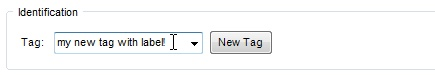
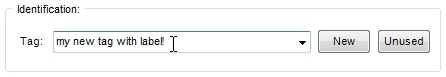
Added a way to assign new tags, which finds a tag unused by current map element type.

Changed region(s): [[0.0, 0.0533, 1.0, 0.9333]]

diff --git a/Help/gzdb/features/all_modes/tag_support.html b/Help/gzdb/features/all_modes/tag_support.html
@@ -17,6 +17,12 @@
 </div>
 	
 	<div id="contents">
+    <h2><strong>New Tag vs. Unused Tag:</strong></h2>
+    <p><img src="tags_newlabel.jpg" /><br />
+    Two methods can be used to assign a new tag to a map element.<br />
+    Pressing &quot;<strong>New</strong>&quot; button will find a tag number, which is not used by any map element or any action argument, which expects a tag (classic Doom Builder 2 behaviour).<br />
+    Pressing "<strong>Unused</strong>" button will  find a tag number, which is not used by any map element of current type (e.g. not used by any linedef in the map, if the button is pressed in Edit Linedefs form).</p>
+    
     <h2><strong>Tag support:</strong></h2>
     <table width="100%" border="0" cellspacing="3" cellpadding="3">
       <tr>
@@ -33,7 +39,7 @@
     <h2><strong>Tag Labels</strong>:</h2>
       <p>You can add labels to tags. This can be done in several ways:<br />
       1. If you type any text in the tag selector, then an unused tag number will be found, and your text will be assigned to it as a label (this won't work for action arguments).      
-      <p><img src="tags_newlabel.jpg" alt="" width="435" height="75" />
+      <p><img src="tags_newlabel.jpg" />
       <p>2. You can use the <strong>Tag statistics</strong> form to view all tags used in a map, and view and edit labels, if any are assigned to them:      
       <p><img src="tags_view1.jpg" alt="" width="264" height="399" /><br /><br /><img src="tags_table.jpg" alt="" />
       <p>Double-click on a value in the &quot;Label&quot; column to edit the tag label.<br />

diff --git a/Source/Core/Windows/SectorEditFormUDMF.Designer.cs b/Source/Core/Windows/SectorEditFormUDMF.Designer.cs
@@ -54,6 +54,7 @@
 			this.flags = new CodeImp.DoomBuilder.Controls.CheckboxArrayControl();
 			this.tabSurfaces = new System.Windows.Forms.TabPage();
 			this.groupBox2 = new System.Windows.Forms.GroupBox();
+			this.cbUseFloorLineAngles = new System.Windows.Forms.CheckBox();
 			this.floorAngleControl = new CodeImp.DoomBuilder.GZBuilder.Controls.AngleControl();
 			this.label7 = new System.Windows.Forms.Label();
 			this.label10 = new System.Windows.Forms.Label();
@@ -68,6 +69,7 @@
 			this.floorOffsets = new CodeImp.DoomBuilder.GZBuilder.Controls.PairedFieldsControl();
 			this.floortex = new CodeImp.DoomBuilder.Controls.FlatSelectorControl();
 			this.groupBox1 = new System.Windows.Forms.GroupBox();
+			this.cbUseCeilLineAngles = new System.Windows.Forms.CheckBox();
 			this.ceilAngleControl = new CodeImp.DoomBuilder.GZBuilder.Controls.AngleControl();
 			this.label3 = new System.Windows.Forms.Label();
 			this.label4 = new System.Windows.Forms.Label();
@@ -85,8 +87,6 @@
 			this.fieldslist = new CodeImp.DoomBuilder.Controls.FieldsEditorControl();
 			this.cancel = new System.Windows.Forms.Button();
 			this.apply = new System.Windows.Forms.Button();
-			this.cbUseCeilLineAngles = new System.Windows.Forms.CheckBox();
-			this.cbUseFloorLineAngles = new System.Windows.Forms.CheckBox();
 			groupaction = new System.Windows.Forms.GroupBox();
 			groupeffect = new System.Windows.Forms.GroupBox();
 			label14 = new System.Windows.Forms.Label();
@@ -125,7 +125,7 @@
 			// 
 			this.tagSelector.Location = new System.Drawing.Point(6, 21);
 			this.tagSelector.Name = "tagSelector";
-			this.tagSelector.Size = new System.Drawing.Size(369, 35);
+			this.tagSelector.Size = new System.Drawing.Size(424, 35);
 			this.tagSelector.TabIndex = 0;
 			// 
 			// groupeffect
@@ -461,6 +461,18 @@
 			this.groupBox2.TabStop = false;
 			this.groupBox2.Text = "Floor:";
 			// 
+			// cbUseFloorLineAngles
+			// 
+			this.cbUseFloorLineAngles.AutoSize = true;
+			this.cbUseFloorLineAngles.Location = new System.Drawing.Point(230, 119);
+			this.cbUseFloorLineAngles.Name = "cbUseFloorLineAngles";
+			this.cbUseFloorLineAngles.Size = new System.Drawing.Size(99, 18);
+			this.cbUseFloorLineAngles.TabIndex = 57;
+			this.cbUseFloorLineAngles.Tag = "";
+			this.cbUseFloorLineAngles.Text = "Use line angles";
+			this.cbUseFloorLineAngles.UseVisualStyleBackColor = true;
+			this.cbUseFloorLineAngles.CheckedChanged += new System.EventHandler(this.cbUseFloorLineAngles_CheckedChanged);
+			// 
 			// floorAngleControl
 			// 
 			this.floorAngleControl.Angle = 0;
@@ -646,6 +658,18 @@
 			this.groupBox1.TabIndex = 0;
 			this.groupBox1.TabStop = false;
 			this.groupBox1.Text = " Ceiling:";
+			// 
+			// cbUseCeilLineAngles
+			// 
+			this.cbUseCeilLineAngles.AutoSize = true;
+			this.cbUseCeilLineAngles.Location = new System.Drawing.Point(230, 119);
+			this.cbUseCeilLineAngles.Name = "cbUseCeilLineAngles";
+			this.cbUseCeilLineAngles.Size = new System.Drawing.Size(99, 18);
+			this.cbUseCeilLineAngles.TabIndex = 56;
+			this.cbUseCeilLineAngles.Tag = "";
+			this.cbUseCeilLineAngles.Text = "Use line angles";
+			this.cbUseCeilLineAngles.UseVisualStyleBackColor = true;
+			this.cbUseCeilLineAngles.CheckedChanged += new System.EventHandler(this.cbUseCeilLineAngles_CheckedChanged);
 			// 
 			// ceilAngleControl
 			// 
@@ -864,30 +888,6 @@
 			this.apply.Text = "OK";
 			this.apply.UseVisualStyleBackColor = true;
 			this.apply.Click += new System.EventHandler(this.apply_Click);
-			// 
-			// cbUseCeilLineAngles
-			// 
-			this.cbUseCeilLineAngles.AutoSize = true;
-			this.cbUseCeilLineAngles.Location = new System.Drawing.Point(230, 119);
-			this.cbUseCeilLineAngles.Name = "cbUseCeilLineAngles";
-			this.cbUseCeilLineAngles.Size = new System.Drawing.Size(99, 18);
-			this.cbUseCeilLineAngles.TabIndex = 56;
-			this.cbUseCeilLineAngles.Tag = "";
-			this.cbUseCeilLineAngles.Text = "Use line angles";
-			this.cbUseCeilLineAngles.UseVisualStyleBackColor = true;
-			this.cbUseCeilLineAngles.CheckedChanged += new System.EventHandler(this.cbUseCeilLineAngles_CheckedChanged);
-			// 
-			// cbUseFloorLineAngles
-			// 
-			this.cbUseFloorLineAngles.AutoSize = true;
-			this.cbUseFloorLineAngles.Location = new System.Drawing.Point(230, 119);
-			this.cbUseFloorLineAngles.Name = "cbUseFloorLineAngles";
-			this.cbUseFloorLineAngles.Size = new System.Drawing.Size(99, 18);
-			this.cbUseFloorLineAngles.TabIndex = 57;
-			this.cbUseFloorLineAngles.Tag = "";
-			this.cbUseFloorLineAngles.Text = "Use line angles";
-			this.cbUseFloorLineAngles.UseVisualStyleBackColor = true;
-			this.cbUseFloorLineAngles.CheckedChanged += new System.EventHandler(this.cbUseFloorLineAngles_CheckedChanged);
 			// 
 			// SectorEditFormUDMF
 			// 

diff --git a/Source/Core/GZBuilder/Controls/TagSelector.Designer.cs b/Source/Core/GZBuilder/Controls/TagSelector.Designer.cs
@@ -25,9 +25,12 @@
 		/// the contents of this method with the code editor.
 		/// </summary>
 		private void InitializeComponent() {
+			this.components = new System.ComponentModel.Container();
 			this.label1 = new System.Windows.Forms.Label();
 			this.cbTagPicker = new System.Windows.Forms.ComboBox();
 			this.newTag = new System.Windows.Forms.Button();
+			this.unusedTag = new System.Windows.Forms.Button();
+			this.toolTip1 = new System.Windows.Forms.ToolTip(this.components);
 			this.SuspendLayout();
 			// 
 			// label1
@@ -41,28 +44,46 @@
 			// 
 			// cbTagPicker
 			// 
+			this.cbTagPicker.Anchor = ((System.Windows.Forms.AnchorStyles)(((System.Windows.Forms.AnchorStyles.Top | System.Windows.Forms.AnchorStyles.Left)
+						| System.Windows.Forms.AnchorStyles.Right)));
 			this.cbTagPicker.AutoCompleteMode = System.Windows.Forms.AutoCompleteMode.Suggest;
 			this.cbTagPicker.AutoCompleteSource = System.Windows.Forms.AutoCompleteSource.ListItems;
 			this.cbTagPicker.FormattingEnabled = true;
 			this.cbTagPicker.Location = new System.Drawing.Point(42, 7);
 			this.cbTagPicker.Name = "cbTagPicker";
-			this.cbTagPicker.Size = new System.Drawing.Size(241, 21);
+			this.cbTagPicker.Size = new System.Drawing.Size(190, 21);
 			this.cbTagPicker.TabIndex = 1;
 			// 
 			// newTag
 			// 
-			this.newTag.Location = new System.Drawing.Point(289, 6);
+			this.newTag.Anchor = ((System.Windows.Forms.AnchorStyles)((System.Windows.Forms.AnchorStyles.Top | System.Windows.Forms.AnchorStyles.Right)));
+			this.newTag.Location = new System.Drawing.Point(238, 6);
 			this.newTag.Name = "newTag";
-			this.newTag.Size = new System.Drawing.Size(64, 23);
+			this.newTag.Size = new System.Drawing.Size(54, 23);
 			this.newTag.TabIndex = 2;
-			this.newTag.Text = "New Tag";
+			this.newTag.Text = "New";
+			this.toolTip1.SetToolTip(this.newTag, "Finds a tag, which is not used as a tag or tag action argument \r\nby any map eleme" +
+					"nt");
 			this.newTag.UseVisualStyleBackColor = true;
 			this.newTag.Click += new System.EventHandler(this.newTag_Click);
+			// 
+			// unusedTag
+			// 
+			this.unusedTag.Anchor = ((System.Windows.Forms.AnchorStyles)((System.Windows.Forms.AnchorStyles.Top | System.Windows.Forms.AnchorStyles.Right)));
+			this.unusedTag.Location = new System.Drawing.Point(298, 6);
+			this.unusedTag.Name = "unusedTag";
+			this.unusedTag.Size = new System.Drawing.Size(54, 23);
+			this.unusedTag.TabIndex = 3;
+			this.unusedTag.Text = "Unused";
+			this.toolTip1.SetToolTip(this.unusedTag, "Finds a tag, which is not used as a tag \r\nby any map element of this type");
+			this.unusedTag.UseVisualStyleBackColor = true;
+			this.unusedTag.Click += new System.EventHandler(this.unusedTag_Click);
 			// 
 			// TagSelector
 			// 
 			this.AutoScaleDimensions = new System.Drawing.SizeF(6F, 13F);
 			this.AutoScaleMode = System.Windows.Forms.AutoScaleMode.Font;
+			this.Controls.Add(this.unusedTag);
 			this.Controls.Add(this.newTag);
 			this.Controls.Add(this.cbTagPicker);
 			this.Controls.Add(this.label1);
@@ -78,5 +99,7 @@
 		private System.Windows.Forms.Label label1;
 		private System.Windows.Forms.ComboBox cbTagPicker;
 		private System.Windows.Forms.Button newTag;
+		private System.Windows.Forms.Button unusedTag;
+		private System.Windows.Forms.ToolTip toolTip1;
 	}
 }

diff --git a/Source/Core/Map/MapSet.cs b/Source/Core/Map/MapSet.cs
@@ -2629,6 +2629,43 @@ namespace CodeImp.DoomBuilder.Map
 			return 0;
 		}
 
+		//mxd
+		/// <summary>This returns the tag number, which is not used by any map element of given type. This method doesn't check action arguments!</summary>
+		public int GetNewTag(UniversalType elementType) 
+		{
+			Dictionary<int, bool> usedtags = new Dictionary<int, bool>();
+
+			switch(elementType) {
+				case UniversalType.ThingTag:
+					for(int i = 0; i < things.Length; i++) {
+						if(things[i].Tag > 0 && !usedtags.ContainsKey(things[i].Tag))
+							usedtags.Add(things[i].Tag, false);
+					}
+					break;
+
+				case UniversalType.LinedefTag:
+					for(int i = 0; i < linedefs.Length; i++) {
+						if(linedefs[i].Tag > 0 && !usedtags.ContainsKey(linedefs[i].Tag))
+							usedtags.Add(linedefs[i].Tag, false);
+					}
+					break;
+
+				case UniversalType.SectorTag:
+					for(int i = 0; i < sectors.Length; i++) {
+						if(sectors[i].Tag > 0 && !usedtags.ContainsKey(sectors[i].Tag))
+							usedtags.Add(sectors[i].Tag, false);
+					}
+					break;
+			}
+
+			// Now find the first unused index
+			for(int i = 1; i <= General.Map.FormatInterface.MaxTag; i++)
+				if(!usedtags.ContainsKey(i)) return i;
+			
+			// All tags used!
+			return 0;
+		}
+
 		/// <summary>This returns the next unused tag number within the marked geometry.</summary>
 		public int GetNewTag(bool marked)
 		{

diff --git a/Source/Core/Windows/SectorEditForm.Designer.cs b/Source/Core/Windows/SectorEditForm.Designer.cs
@@ -119,16 +119,16 @@ namespace CodeImp.DoomBuilder.Windows
 			this.effect.Cursor = System.Windows.Forms.Cursors.Default;
 			this.effect.Empty = false;
 			this.effect.GeneralizedCategories = null;
-			this.effect.Location = new System.Drawing.Point(89, 28);
+			this.effect.Location = new System.Drawing.Point(61, 28);
 			this.effect.Name = "effect";
-			this.effect.Size = new System.Drawing.Size(307, 21);
+			this.effect.Size = new System.Drawing.Size(335, 21);
 			this.effect.TabIndex = 0;
 			this.effect.Value = 402;
 			// 
 			// label8
 			// 
 			label8.AutoSize = true;
-			label8.Location = new System.Drawing.Point(38, 31);
+			label8.Location = new System.Drawing.Point(12, 31);
 			label8.Name = "label8";
 			label8.Size = new System.Drawing.Size(45, 14);
 			label8.TabIndex = 0;
@@ -136,9 +136,9 @@ namespace CodeImp.DoomBuilder.Windows
 			// 
 			// tagSelector
 			// 
-			this.tagSelector.Location = new System.Drawing.Point(47, 52);
+			this.tagSelector.Location = new System.Drawing.Point(19, 52);
 			this.tagSelector.Name = "tagSelector";
-			this.tagSelector.Size = new System.Drawing.Size(384, 34);
+			this.tagSelector.Size = new System.Drawing.Size(414, 34);
 			this.tagSelector.TabIndex = 0;
 			// 
 			// label9

diff --git a/Source/Core/GZBuilder/Controls/TagSelector.cs b/Source/Core/GZBuilder/Controls/TagSelector.cs
@@ -3,6 +3,7 @@ using System.Collections.Generic;
 using System.Windows.Forms;
 using CodeImp.DoomBuilder.Map;
 using System.Globalization;
+using CodeImp.DoomBuilder.Types;
 
 namespace CodeImp.DoomBuilder.GZBuilder.Controls
 {
@@ -36,14 +37,16 @@ namespace CodeImp.DoomBuilder.GZBuilder.Controls
 		private List<TagInfo> infos;
 		private bool valid;
 		private int tag;
+		private UniversalType elementType;
 		
 		public TagSelector() {
 			InitializeComponent();
 		}
 
-		public void Setup() {
+		public void Setup(UniversalType elementType) {
 			tags = new List<int>();
 			infos = new List<TagInfo>();
+			this.elementType = elementType;
 
 			//collect used tags from sectors...
 			foreach(Sector s in General.Map.Map.Sectors) {
@@ -149,6 +152,13 @@ namespace CodeImp.DoomBuilder.GZBuilder.Controls
 		private void newTag_Click(object sender, EventArgs e) {
 			//todo: check tag labels?
 			tag = General.Map.Map.GetNewTag();
+			cbTagPicker.SelectedIndex = -1;
+			cbTagPicker.Text = tag.ToString();
+			valid = true;
+		}
+
+		private void unusedTag_Click(object sender, EventArgs e) {
+			tag = General.Map.Map.GetNewTag(elementType);
 			cbTagPicker.SelectedIndex = -1;
 			cbTagPicker.Text = tag.ToString();
 			valid = true;

diff --git a/Source/Core/Windows/ThingEditForm.Designer.cs b/Source/Core/Windows/ThingEditForm.Designer.cs
@@ -597,7 +597,7 @@ namespace CodeImp.DoomBuilder.Windows
 			this.conversationID.AllowRelative = false;
 			this.conversationID.ButtonStep = 1;
 			this.conversationID.ButtonStepFloat = 1F;
-			this.conversationID.Location = new System.Drawing.Point(493, 26);
+			this.conversationID.Location = new System.Drawing.Point(548, 26);
 			this.conversationID.Name = "conversationID";
 			this.conversationID.Size = new System.Drawing.Size(72, 24);
 			this.conversationID.StepValues = null;
@@ -606,7 +606,7 @@ namespace CodeImp.DoomBuilder.Windows
 			// labelID
 			// 
 			this.labelID.AutoSize = true;
-			this.labelID.Location = new System.Drawing.Point(401, 31);
+			this.labelID.Location = new System.Drawing.Point(456, 31);
 			this.labelID.Name = "labelID";
 			this.labelID.Size = new System.Drawing.Size(86, 14);
 			this.labelID.TabIndex = 10;
@@ -616,7 +616,7 @@ namespace CodeImp.DoomBuilder.Windows
 			// 
 			this.tagSelector.Location = new System.Drawing.Point(6, 19);
 			this.tagSelector.Name = "tagSelector";
-			this.tagSelector.Size = new System.Drawing.Size(369, 35);
+			this.tagSelector.Size = new System.Drawing.Size(430, 35);
 			this.tagSelector.TabIndex = 8;
 			// 
 			// tabcustom

diff --git a/Source/Core/Windows/LinedefEditForm.Designer.cs b/Source/Core/Windows/LinedefEditForm.Designer.cs
@@ -667,7 +667,7 @@ namespace CodeImp.DoomBuilder.Windows
 			// 
 			this.tagSelector.Location = new System.Drawing.Point(6, 19);
 			this.tagSelector.Name = "tagSelector";
-			this.tagSelector.Size = new System.Drawing.Size(369, 35);
+			this.tagSelector.Size = new System.Drawing.Size(444, 35);
 			this.tagSelector.TabIndex = 0;
 			// 
 			// tabsidedefs

diff --git a/Source/Core/Windows/SectorEditForm.cs b/Source/Core/Windows/SectorEditForm.cs
@@ -117,7 +117,7 @@ namespace CodeImp.DoomBuilder.Windows
 			ceilingtex.TextureName = sc.CeilTexture;
 
 			// Action
-			tagSelector.Setup(); //mxd
+			tagSelector.Setup(UniversalType.SectorTag); //mxd
 			tagSelector.SetTag(sc.Tag);//mxd
 			
 			////////////////////////////////////////////////////////////////////////

diff --git a/Source/Core/Windows/ThingEditForm.cs b/Source/Core/Windows/ThingEditForm.cs
@@ -198,7 +198,7 @@ namespace CodeImp.DoomBuilder.Windows
 			// Action/tags
 			action.Value = ft.Action;
 			if(General.Map.FormatInterface.HasThingTag) {//mxd
-				tagSelector.Setup(); 
+				tagSelector.Setup(UniversalType.ThingTag); 
 				tagSelector.SetTag(ft.Tag);
 			}
 			arg0.SetValue(ft.Args[0]);

diff --git a/Source/Core/Windows/LinedefEditForm.cs b/Source/Core/Windows/LinedefEditForm.cs
@@ -325,7 +325,7 @@ namespace CodeImp.DoomBuilder.Windows
 			action.Value = fl.Action;
 
 			if(General.Map.FormatInterface.HasLinedefTag) {//mxd
-				tagSelector.Setup();
+				tagSelector.Setup(UniversalType.LinedefTag);
 				tagSelector.SetTag(fl.Tag);
 			}
 

diff --git a/Source/Core/Windows/SectorEditFormUDMF.cs b/Source/Core/Windows/SectorEditFormUDMF.cs
@@ -211,7 +211,7 @@ namespace CodeImp.DoomBuilder.Windows
 			lightColor.SetValueFrom(sc.Fields);
 
 			// Action
-			tagSelector.Setup(); //mxd
+			tagSelector.Setup(UniversalType.SectorTag); //mxd
 			tagSelector.SetTag(sc.Tag);//mxd
 
 			// Custom fields
